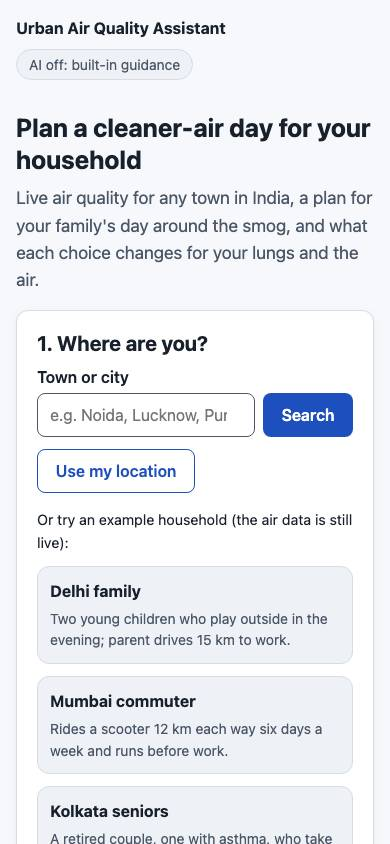
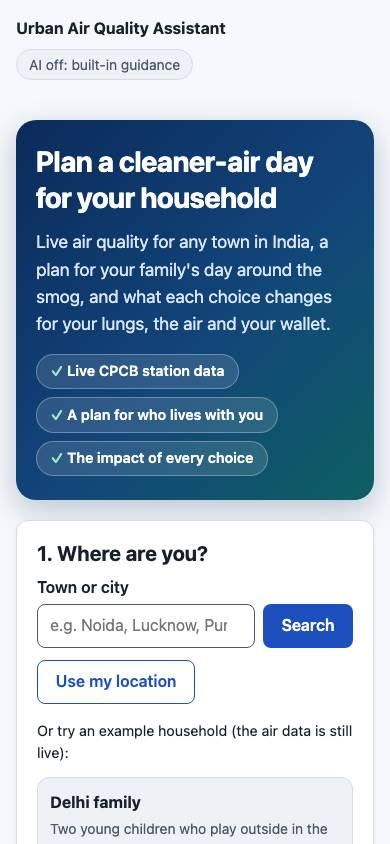
feat(impacts): add petrol cost, the WHO comparison and a bolder first screen
- Commute switch, carpool and work-from-home impacts now show the petrol
  saved in rupees, converted from the same India GHG Program factors
  (2.27193 kg CO2 per litre, Rs 95 per litre).
- The air card says how many times the WHO 24-hour PM2.5 guideline the
  air is, and the prompt passes the same figure to the model.
- A hero band and a tinted AQI card make the first screen clearer,
  with AA contrast in both themes and forced-colours support.
- README, docs and screenshots updated; live link added.

diff --git a/src/lib/domain/impacts.ts b/src/lib/domain/impacts.ts
@@ -3,7 +3,14 @@
 
 import { z } from "../zod";
 import type { AirReport } from "./air";
-import { commuteKgPerDay, formatKg, weeklySavingKg } from "./emissions";
+import {
+  commuteKgPerDay,
+  formatKg,
+  formatRupees,
+  isPetrolVehicle,
+  petrolRupees,
+  weeklySavingKg,
+} from "./emissions";
 import {
   commuteMinutes,
   INDOOR_SHARE,
@@ -62,6 +69,14 @@ const VEHICLE_NOUN: Partial<Record<CommuteMode, string>> = {
 };
 
 const round = Math.round;
+
+type Phrases = [string, ...string[]];
+
+/** "a", "a and b", "a, b and c". */
+function listPhrase([first, ...rest]: Phrases): string {
+  const last = rest.pop();
+  return last === undefined ? first : `${[first, ...rest].join(", ")} and ${last}`;
+}
 
 function shiftActivity({ household, report }: Context): ImpactFact | null {
   const { kind, partOfDay, minutes } = household.activity;
@@ -133,9 +148,12 @@ function commuteSwitch({ household }: Context): ImpactFact | null {
   if (!vehicle) return null;
   const kg = weeklySavingKg(mode, "metro", distanceKm, daysPerWeek);
   if (kg < MIN_KG) return null;
+  const petrol = petrolRupees(commuteKgPerDay(mode, distanceKm) * daysPerWeek);
+  const saved: Phrases = [`about ${formatKg(kg)} kg of CO₂`];
+  if (isPetrolVehicle(mode)) saved.push(`${formatRupees(petrol)} of petrol`);
   return {
     id: "commute-switch",
-    text: `Taking the metro or a bus instead of your ${vehicle} for ${distanceKm} km each way saves about ${formatKg(kg)} kg of CO₂ a week.`,
+    text: `Taking the metro or a bus instead of your ${vehicle} for ${distanceKm} km each way saves ${listPhrase(saved)} a week.`,
   };
 }
 
@@ -147,7 +165,7 @@ function carpool({ household }: Context): ImpactFact | null {
   if (kg < MIN_KG) return null;
   return {
     id: "carpool",
-    text: `Sharing the car with two others cuts your share of its CO₂ by about ${formatKg(kg)} kg a week.`,
+    text: `Sharing the car with two others cuts your share of its CO₂ by about ${formatKg(kg)} kg a week, and your petrol bill by about ${formatRupees(petrolRupees(kg))} if you split the cost.`,
   };
 }
 
@@ -155,10 +173,12 @@ function remoteDay({ household }: Context): ImpactFact | null {
   const { mode, distanceKm, daysPerWeek } = household.commute;
   if (mode === "none" || daysPerWeek === 0 || distanceKm === 0) return null;
   const kg = commuteKgPerDay(mode, distanceKm);
-  const co2 = kg >= MIN_KG ? ` and about ${formatKg(kg)} kg of CO₂` : "";
+  const saved: Phrases = [`${String(commuteMinutes(mode, distanceKm))} minutes on the road`];
+  if (kg >= MIN_KG) saved.push(`about ${formatKg(kg)} kg of CO₂`);
+  if (isPetrolVehicle(mode)) saved.push(`${formatRupees(petrolRupees(kg))} of petrol`);
   return {
     id: "remote-day",
-    text: `One day a week at home instead of commuting saves ${commuteMinutes(mode, distanceKm)} minutes on the road${co2}.`,
+    text: `One day a week at home instead of commuting saves ${listPhrase(saved)}.`,
   };
 }
 

diff --git a/tests/domain/exposure-emissions.test.ts b/tests/domain/exposure-emissions.test.ts
@@ -1,11 +1,19 @@
 import { describe, expect, it } from "vitest";
-import { commuteKgPerDay, formatKg, weeklySavingKg } from "@/lib/domain/emissions";
+import {
+  commuteKgPerDay,
+  formatKg,
+  formatRupees,
+  isPetrolVehicle,
+  petrolRupees,
+  weeklySavingKg,
+} from "@/lib/domain/emissions";
 import {
   cigarettesPerDay,
   commuteMinutes,
   indoorPm25,
   maskReduction,
   reductionPercent,
+  whoMultiple,
 } from "@/lib/domain/exposure";
 
 describe("exposure", () => {
@@ -32,6 +40,12 @@ describe("exposure", () => {
     expect(indoorPm25(100, true)).toBeCloseTo(30);
   });
 
+  it("compares PM2.5 with the WHO 24-hour guideline", () => {
+    expect(whoMultiple(150)).toBe(10);
+    expect(whoMultiple(89)).toBe(5.9);
+    expect(whoMultiple(8)).toBe(0.5);
+  });
+
   it("converts a day's PM2.5 into cigarette-equivalents", () => {
     expect(cigarettesPerDay(22)).toBe(1);
     expect(cigarettesPerDay(150)).toBe(6.8);
@@ -49,6 +63,20 @@ describe("emissions", () => {
   it("works out the weekly saving of a switch, never negative", () => {
     expect(weeklySavingKg("car", "metro", 15, 5)).toBeCloseTo(18.73, 1);
     expect(weeklySavingKg("bus", "car", 15, 5)).toBe(0);
+  });
+
+  it("prices the petrol behind the CO₂, for petrol vehicles only", () => {
+    expect(isPetrolVehicle("car")).toBe(true);
+    expect(isPetrolVehicle("two-wheeler")).toBe(true);
+    expect(isPetrolVehicle("auto")).toBe(false);
+    // 2.27193 kg of CO₂ is one litre of petrol, at ₹95.
+    expect(petrolRupees(2.27193)).toBeCloseTo(95);
+  });
+
+  it("formats rupees with Indian digit grouping, to the nearest ₹10 above ₹100", () => {
+    expect(formatRupees(42.4)).toBe("₹42");
+    expect(formatRupees(878)).toBe("₹880");
+    expect(formatRupees(123_456)).toBe("₹1,23,460");
   });
 
   it("rounds for reading", () => {

diff --git a/src/lib/domain/emissions.ts b/src/lib/domain/emissions.ts
@@ -1,6 +1,6 @@
-// CO₂ from the daily commute. Factors are from the India GHG Program's India
-// Specific Road Transport Emission Factors (v1.0, 2015), using the paper's
-// real-world figures (with its 10% uplift) where it gives them.
+// CO₂ and petrol from the daily commute. Factors are from the India GHG
+// Program's India Specific Road Transport Emission Factors (v1.0, 2015), using
+// the paper's real-world figures (with its 10% uplift) where it gives them.
 
 import type { CommuteMode } from "./household";
 
@@ -35,6 +35,28 @@ export function weeklySavingKg(
 ): number {
   const perDay = commuteKgPerDay(from, oneWayKm) - commuteKgPerDay(to, oneWayKm);
   return Math.max(0, perDay * daysPerWeek);
+}
+
+/** kg CO₂ from burning a litre of petrol, from the same paper. */
+const KG_CO2_PER_LITRE_PETROL = 2.27193;
+
+/** ₹ per litre of petrol: Delhi's retail price, rounded. It differs by state and over time. */
+const RUPEES_PER_LITRE_PETROL = 95;
+
+/** Scooters and cars run on petrol here; an auto-rickshaw is taken to run on CNG. */
+export function isPetrolVehicle(mode: CommuteMode): boolean {
+  return mode === "two-wheeler" || mode === "car";
+}
+
+/** The cost of the petrol whose burning gives off this much CO₂, in rupees. */
+export function petrolRupees(kgCo2: number): number {
+  return (kgCo2 / KG_CO2_PER_LITRE_PETROL) * RUPEES_PER_LITRE_PETROL;
+}
+
+/** "₹880": whole rupees, to the nearest ₹10 above ₹100, with Indian digit grouping. */
+export function formatRupees(amount: number): string {
+  const rounded = amount >= 100 ? Math.round(amount / 10) * 10 : Math.round(amount);
+  return `₹${rounded.toLocaleString("en-IN")}`;
 }
 
 /** Rounded for reading: one decimal under 10 kg, whole numbers above. */

diff --git a/tests/domain/impacts.test.ts b/tests/domain/impacts.test.ts
@@ -32,11 +32,13 @@ describe("impact facts for the Delhi family", () => {
       "around 2:00 pm, the cleanest hour forecast (70 µg/m³, against a peak of 250 at 7:00 am)",
     );
     expect(textOf(facts, "commute-switch")).toBe(
-      "Taking the metro or a bus instead of your car for 15 km each way saves about 19 kg of CO₂ a week.",
+      "Taking the metro or a bus instead of your car for 15 km each way saves about 19 kg of CO₂ and ₹880 of petrol a week.",
     );
-    expect(textOf(facts, "carpool")).toContain("about 14 kg a week");
+    expect(textOf(facts, "carpool")).toBe(
+      "Sharing the car with two others cuts your share of its CO₂ by about 14 kg a week, and your petrol bill by about ₹590 if you split the cost.",
+    );
     expect(textOf(facts, "remote-day")).toBe(
-      "One day a week at home instead of commuting saves 82 minutes on the road and about 4.2 kg of CO₂.",
+      "One day a week at home instead of commuting saves 82 minutes on the road, about 4.2 kg of CO₂ and ₹180 of petrol.",
     );
   });
 });
@@ -78,6 +80,10 @@ describe("impact facts that don't apply", () => {
     const walk = { ...FAMILY, commute: { mode: "walk" as const, distanceKm: 2, daysPerWeek: 5 } };
     expect(textOf(impactFacts(walk, report()), "remote-day")).toBe(
       "One day a week at home instead of commuting saves 48 minutes on the road.",
+    );
+    const auto = { ...FAMILY, commute: { mode: "auto" as const, distanceKm: 8, daysPerWeek: 5 } };
+    expect(textOf(impactFacts(auto, report()), "commute-switch")).toBe(
+      "Taking the metro or a bus instead of your auto-rickshaw for 8 km each way saves about 7.4 kg of CO₂ a week.",
     );
     const idleCar = {
       ...FAMILY,

diff --git a/tests/ui/air.test.tsx b/tests/ui/air.test.tsx
@@ -19,6 +19,9 @@ describe("AirNow", () => {
     expect(screen.getByText("12:00 am IST")).toBeInTheDocument();
     expect(screen.getByText("220 µg/m³")).toBeInTheDocument();
     expect(screen.getByText("6.8 cigarettes")).toBeInTheDocument();
+    expect(screen.getByText(/the WHO 24-hour guideline \(15 µg\/m³\)/)).toHaveTextContent(
+      "PM2.5 is 10× the WHO 24-hour guideline (15 µg/m³).",
+    );
     expect(await axeViolations(container)).toEqual([]);
   });
 
@@ -32,14 +35,18 @@ describe("AirNow", () => {
       />,
     );
     expect(screen.getByText("Model estimate for this spot")).toBeInTheDocument();
+    expect(screen.getByText(/WHO 24-hour guideline/)).toHaveTextContent("PM2.5 is 2×");
     expect(screen.getByText("For")).toBeInTheDocument();
     expect(screen.getByText("No station nearby.")).toBeInTheDocument();
     expect(screen.getByText(/set by PM10/)).toBeInTheDocument();
     model.unmount();
     const noPm10 = render(
-      <AirNow report={report({ reading: { ...MODEL_READING, pm10: null } })} />,
+      <AirNow report={report({ reading: { ...MODEL_READING, pm25: 12, pm10: null } })} />,
     );
     expect(screen.queryByText("PM10")).not.toBeInTheDocument();
+    expect(
+      screen.getByText("PM2.5 is within the WHO 24-hour guideline (15 µg/m³)."),
+    ).toBeInTheDocument();
     noPm10.unmount();
     render(<AirNow report={report({ reading: { ...report().reading, station: null } })} />);
     expect(screen.getByText("Monitoring station, 3.2 km away")).toBeInTheDocument();

diff --git a/src/components/AirNow.tsx b/src/components/AirNow.tsx
@@ -9,7 +9,7 @@ import {
   indianAqi,
   type AqiCategory,
 } from "@/lib/domain/aqi";
-import { cigarettesPerDay } from "@/lib/domain/exposure";
+import { cigarettesPerDay, WHO_PM25_DAILY, whoMultiple } from "@/lib/domain/exposure";
 import { formatClock } from "@/lib/domain/time";
 import { OutlookChart } from "./OutlookChart";
 
@@ -68,6 +68,7 @@ export const AirNow = memo(function AirNow({ report }: AirNowProps) {
   const { reading } = report;
   const aqi = useMemo(() => indianAqi(reading), [reading]);
   const cigarettes = cigarettesPerDay(reading.pm25);
+  const who = whoMultiple(reading.pm25);
 
   return (
     <div className="air-now">
@@ -83,6 +84,15 @@ export const AirNow = memo(function AirNow({ report }: AirNowProps) {
         </p>
       </div>
       <p className="health">{CATEGORY_HEALTH[aqi.category]}</p>
+      <p className="who">
+        {who > 1 ? (
+          <>
+            PM2.5 is <strong>{who}×</strong> the WHO 24-hour guideline ({WHO_PM25_DAILY} µg/m³).
+          </>
+        ) : (
+          <>PM2.5 is within the WHO 24-hour guideline ({WHO_PM25_DAILY} µg/m³).</>
+        )}
+      </p>
       <SourceDetails reading={reading} />
       {report.note && <p className="note">{report.note}</p>}
       <p className="small">

diff --git a/src/lib/ai/prompts.ts b/src/lib/ai/prompts.ts
@@ -15,6 +15,7 @@ import {
 import type { Reading } from "../domain/air";
 import type { Situation } from "../domain/situation";
 import { formatClock } from "../domain/time";
+import { WHO_PM25_DAILY, whoMultiple } from "../domain/exposure";
 import type { AskRequest, PlanRequest } from "./contracts";
 
 const SHARED_RULES = `- Use only the air data and numbers given here. Never state an AQI, pollutant level, percentage, time or CO₂ figure that isn't in them, and never make up a forecast.
@@ -53,7 +54,8 @@ function describeReading(reading: Reading): string {
     reading.kind === "station"
       ? `measured at ${reading.station ?? "a monitoring station"}, ${String(reading.distanceKm)} km away`
       : "modelled for this spot";
-  return `PM2.5 ${Math.round(reading.pm25)} µg/m³${pm10}. Source: ${reading.source}, ${where}, at ${formatClock(reading.measuredAt)} IST.`;
+  const who = `${String(whoMultiple(reading.pm25))}× the WHO 24-hour guideline of ${String(WHO_PM25_DAILY)} µg/m³`;
+  return `PM2.5 ${Math.round(reading.pm25)} µg/m³ (${who})${pm10}. Source: ${reading.source}, ${where}, at ${formatClock(reading.measuredAt)} IST.`;
 }
 
 function describeForecast({ parts }: Situation): string {

diff --git a/src/components/AssistantApp.tsx b/src/components/AssistantApp.tsx
@@ -10,7 +10,7 @@ import { HouseholdForm } from "./HouseholdForm";
 import { PlaceSearch } from "./PlaceSearch";
 import { PlanSection } from "./PlanSection";
 import { SampleProfiles } from "./SampleProfiles";
-import { SiteFooter, SiteHeader } from "./SiteFrame";
+import { Hero, SiteFooter, SiteHeader } from "./SiteFrame";
 
 // Shown only once live air has loaded, so its code loads then too.
 const AskPanel = lazy(() => import("./AskPanel").then((m) => ({ default: m.AskPanel })));
@@ -49,11 +49,7 @@ export function AssistantApp({ aiEnabled }: AssistantAppProps) {
     <>
       <SiteHeader aiEnabled={aiEnabled} />
       <main id="main" tabIndex={-1} className="container">
-        <h1>Plan a cleaner-air day for your household</h1>
-        <p className="lede">
-          Live air quality for any town in India, a plan for your family&apos;s day around the smog,
-          and what each choice changes for your lungs and the air.
-        </p>
+        <Hero />
         <section aria-labelledby="where-heading" className="card">
           <h2 id="where-heading">1. Where are you?</h2>
           <PlaceSearch onSelect={setPlace} />

diff --git a/src/app/styles/hero.css b/src/app/styles/hero.css
@@ -1,0 +1,44 @@
+/* The opening band: a bold first screen that still meets AA contrast. */
+
+.hero {
+  background: linear-gradient(135deg, #0b2a5b 0%, #12457a 55%, #0d5f61 100%);
+  color: #ffffff;
+  border-radius: 20px;
+  padding: clamp(1.5rem, 5vw, 2.75rem) clamp(1.25rem, 4vw, 2.5rem);
+  margin: 0.5rem 0 1.25rem;
+  box-shadow: 0 10px 30px rgb(11 42 91 / 0.25);
+}
+
+.hero h1 {
+  font-size: clamp(1.8rem, 5vw, 2.7rem);
+  letter-spacing: -0.02em;
+  margin-bottom: 0.75rem;
+}
+
+.hero .lede {
+  color: #dbe7ff;
+  max-width: 38rem;
+}
+
+.hero-points {
+  display: flex;
+  flex-wrap: wrap;
+  gap: 0.5rem;
+  list-style: none;
+  padding: 0;
+  margin: 1rem 0 0;
+}
+
+.hero-points li {
+  background: rgb(255 255 255 / 0.12);
+  border: 1px solid rgb(255 255 255 / 0.3);
+  border-radius: 999px;
+  padding: 0.35rem 0.85rem;
+  font-size: 0.9rem;
+  font-weight: 600;
+}
+
+.hero-points li::before {
+  content: "✓ ";
+  color: #9be7c4;
+}

diff --git a/src/components/SiteFrame.tsx b/src/components/SiteFrame.tsx
@@ -13,6 +13,24 @@ export function SiteHeader({ aiEnabled }: SiteHeaderProps) {
   );
 }
 
+/** The first thing on the page: what the assistant does, in one look. */
+export function Hero() {
+  return (
+    <div className="hero">
+      <h1>Plan a cleaner-air day for your household</h1>
+      <p className="lede">
+        Live air quality for any town in India, a plan for your family&apos;s day around the smog,
+        and what each choice changes for your lungs, the air and your wallet.
+      </p>
+      <ul className="hero-points" aria-label="What you get">
+        <li>Live CPCB station data</li>
+        <li>A plan for who lives with you</li>
+        <li>The impact of every choice</li>
+      </ul>
+    </div>
+  );
+}
+
 export function SiteFooter() {
   return (
     <footer className="site-footer">

diff --git a/e2e/journey.spec.ts b/e2e/journey.spec.ts
@@ -14,7 +14,7 @@ test("a family gets live air, a personal plan with impacts, and an answer", asyn
   await expect(headline).toBeFocused();
   await expect(page.getByText(/AI isn't switched on for this server/)).toBeVisible();
   await expect(page.getByText(/cuts the PM2.5 you breathe during it by about 67%/)).toBeVisible();
-  await expect(page.getByText(/saves about 19 kg of CO₂ a week/)).toBeVisible();
+  await expect(page.getByText(/saves about 19 kg of CO₂ and ₹880 of petrol a week/)).toBeVisible();
 
   await page.getByRole("button", { name: "Can my kids play outside this evening?" }).click();
   await page.getByRole("button", { name: "Ask" }).click();

diff --git a/src/lib/domain/exposure.ts b/src/lib/domain/exposure.ts
@@ -35,6 +35,14 @@ const SPEED_KMH: Record<Exclude<CommuteMode, "none">, number> = {
  */
 const PM25_PER_CIGARETTE = 22;
 
+/** WHO's 2021 air quality guideline for the 24-hour mean of PM2.5, µg/m³. */
+export const WHO_PM25_DAILY = 15;
+
+/** How many times the WHO 24-hour guideline this PM2.5 level is, to one decimal place. */
+export function whoMultiple(pm25: number): number {
+  return Math.round((pm25 / WHO_PM25_DAILY) * 10) / 10;
+}
+
 /** Minutes a day spent commuting, both ways. */
 export function commuteMinutes(mode: CommuteMode, oneWayKm: number): number {
   if (mode === "none") return 0;
